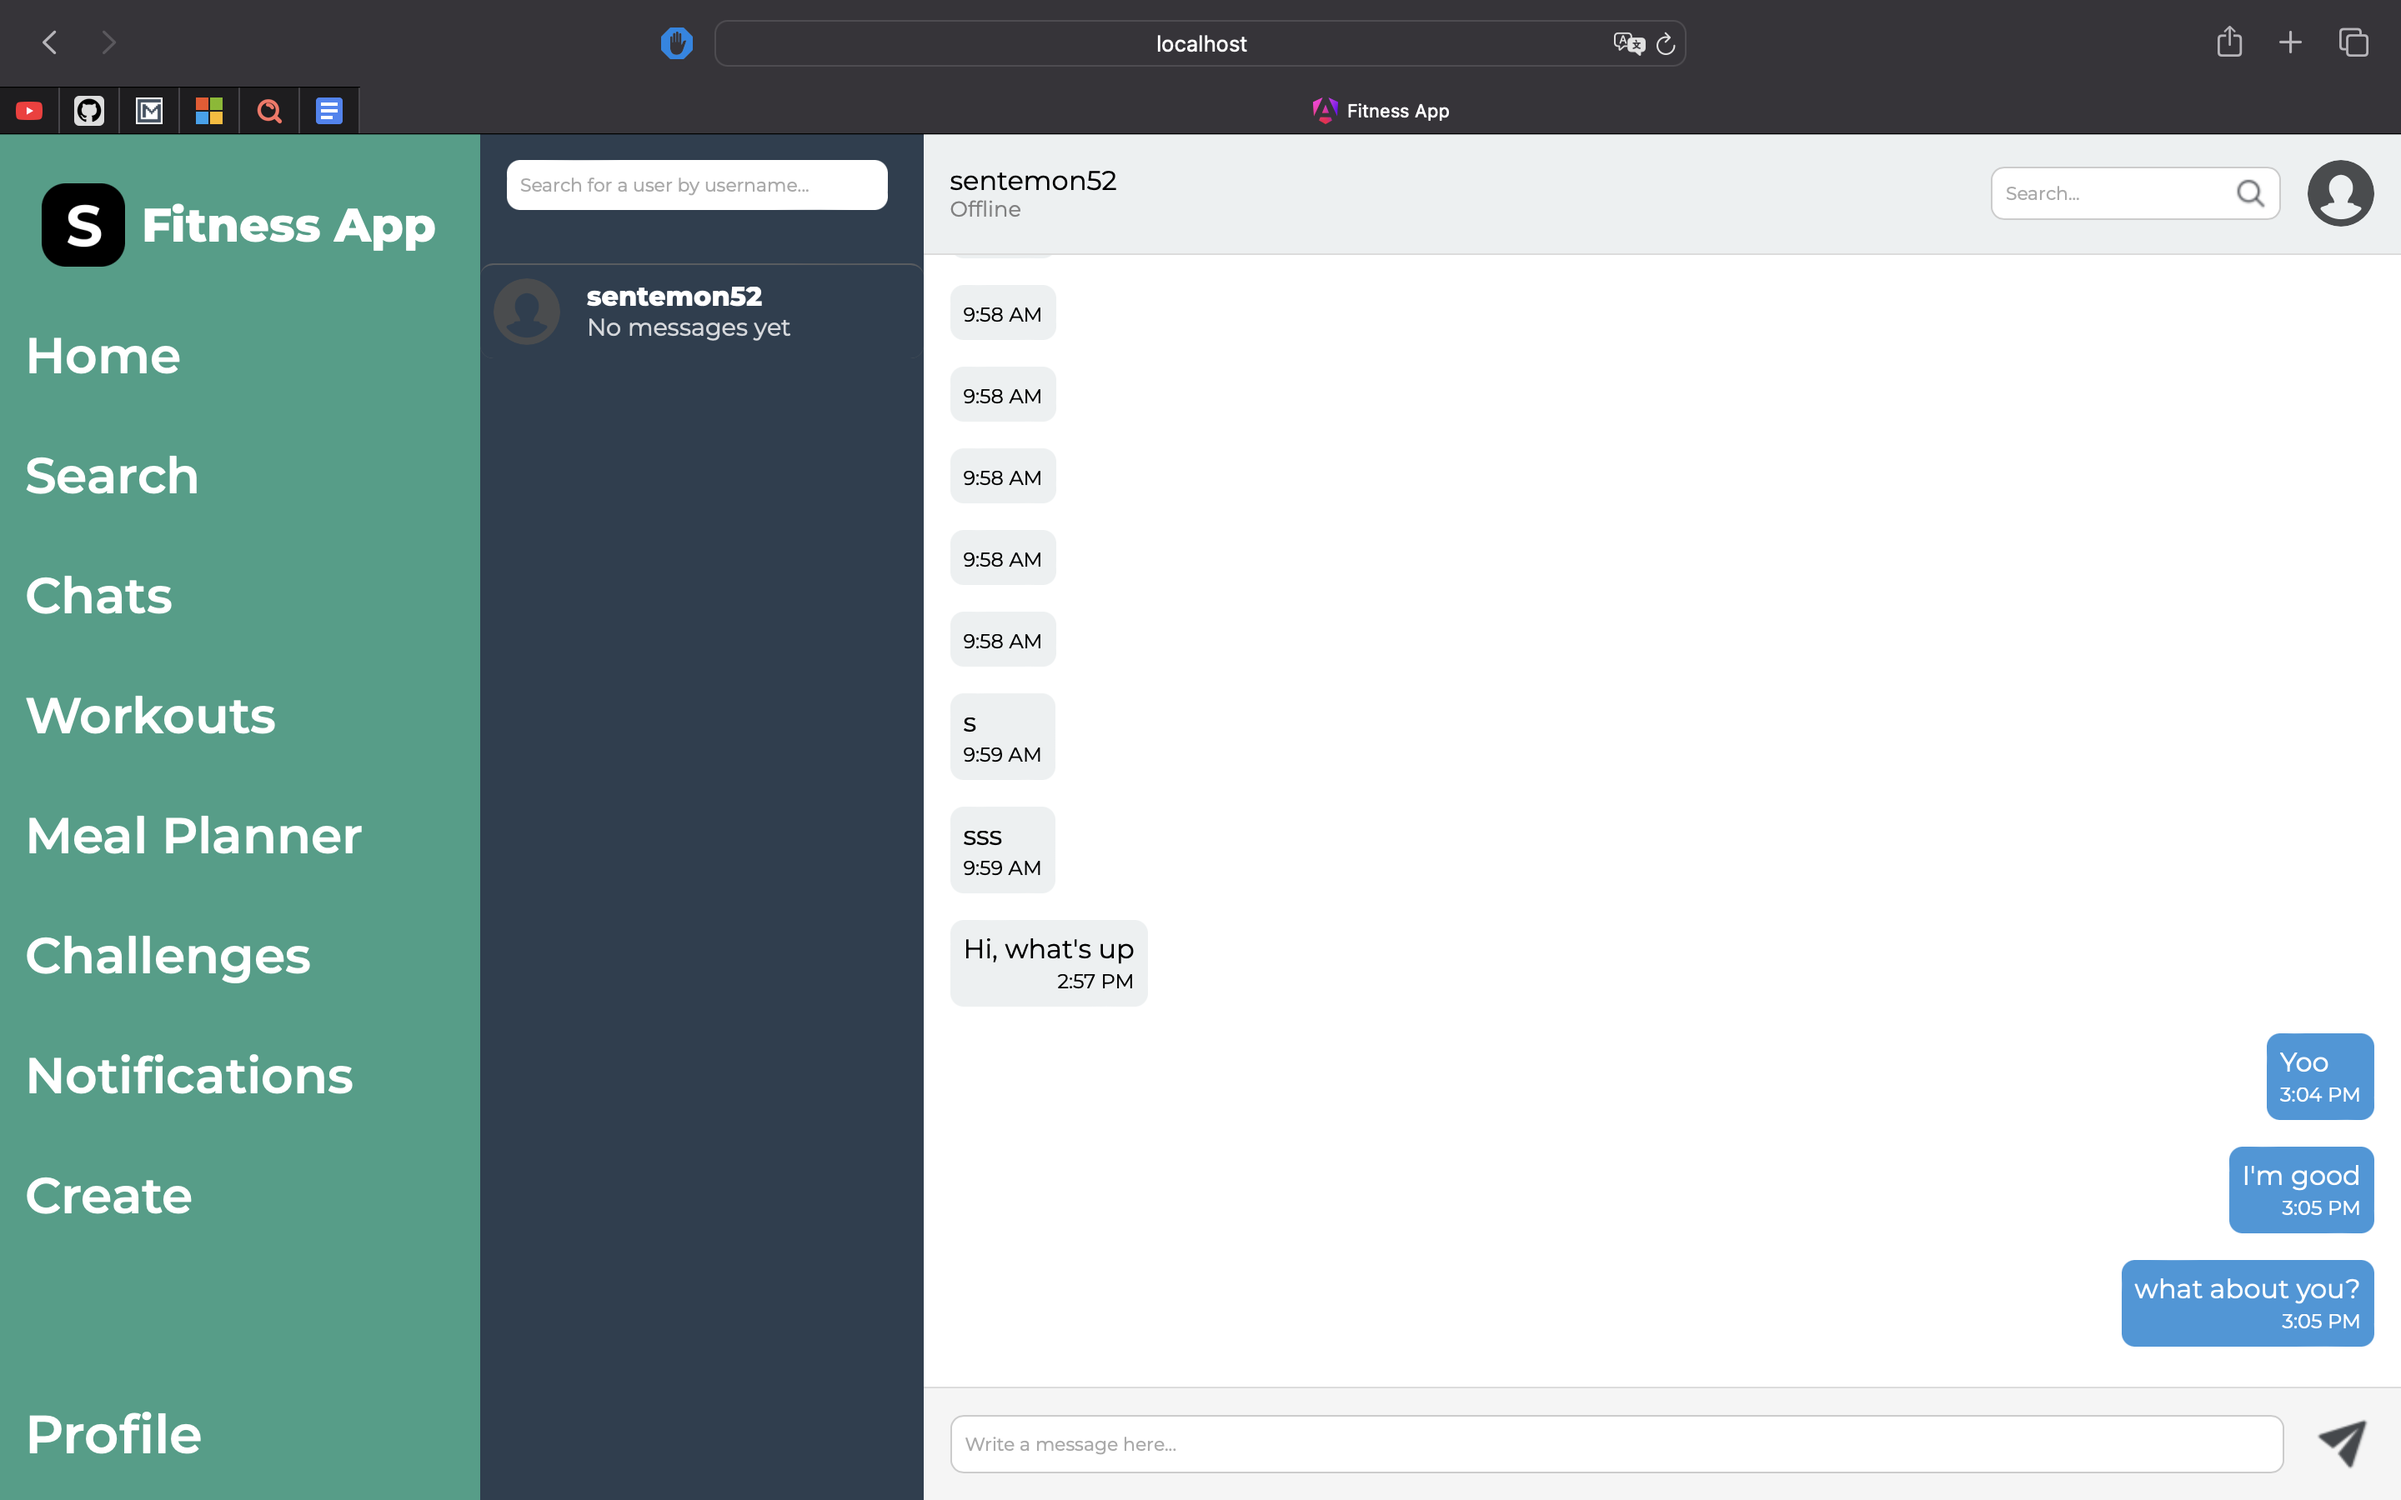
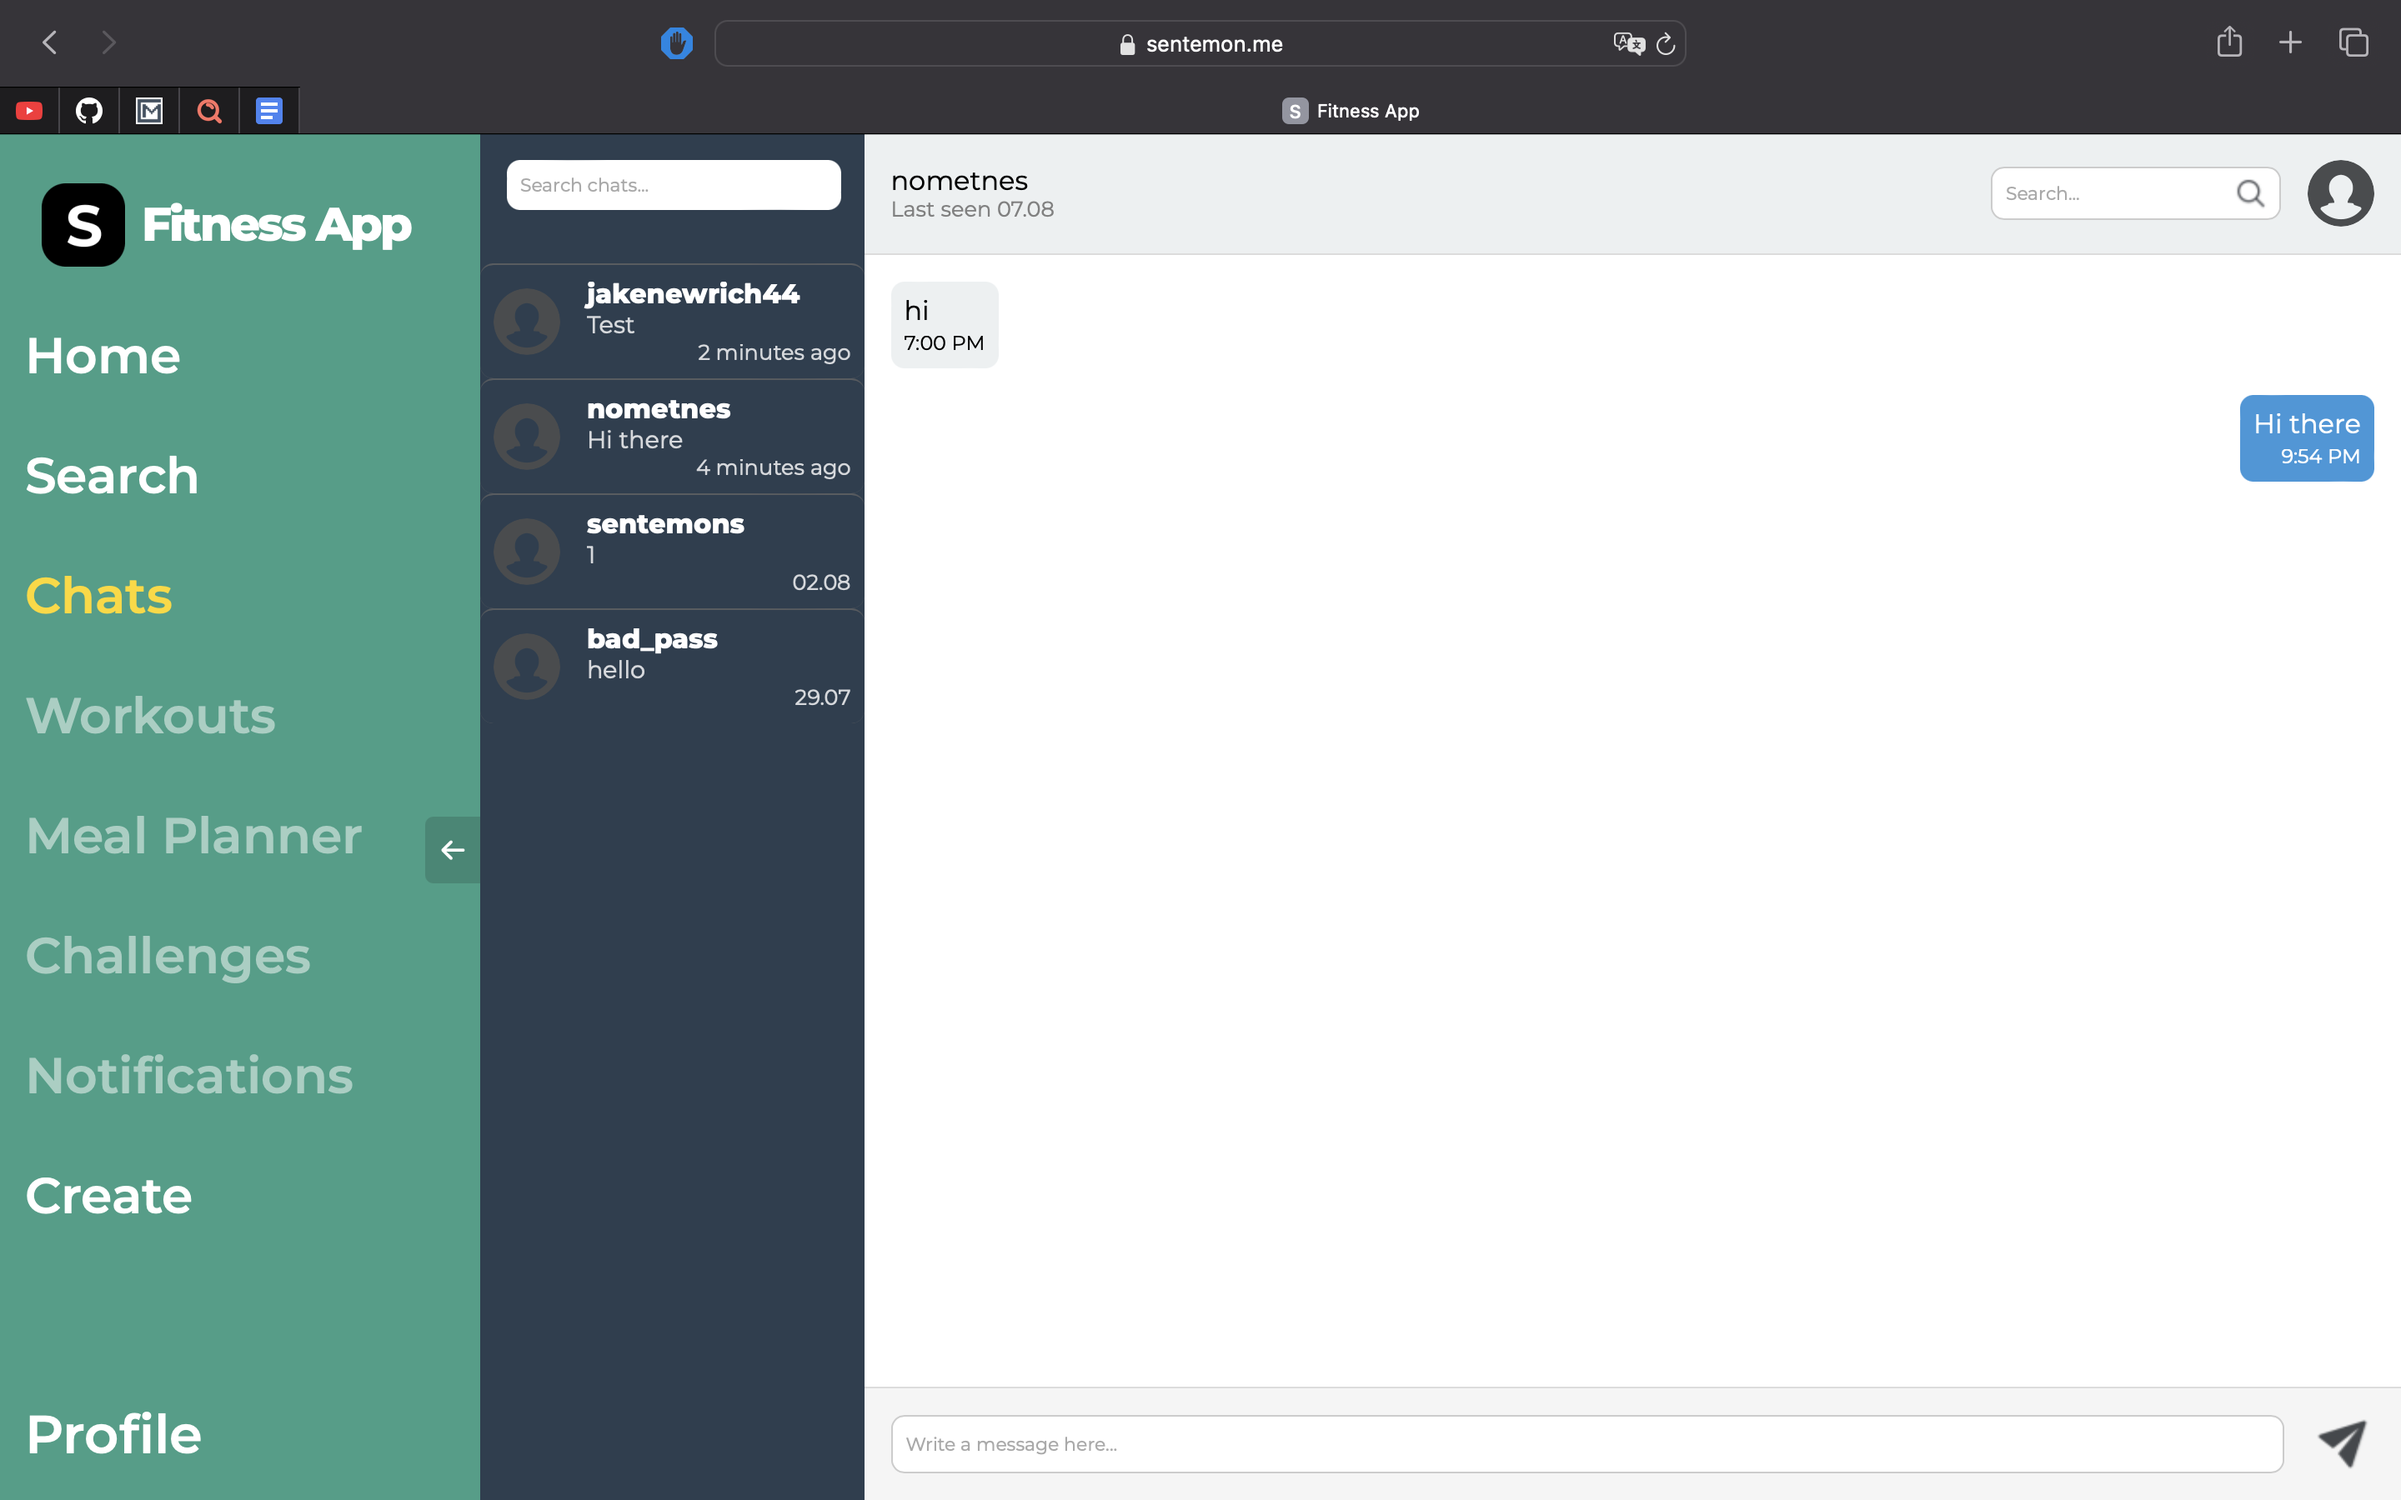
Update README.md and add new images for enhanced documentation and user interface

diff --git a/README.md b/README.md
@@ -1,125 +1,145 @@
 <p align="center">
-  <img src="./img/logo.png" width="150" height="150" alt="Fitness App Logo"/>
+  <img src="./img/logo.png" width="150" height="150" style="border-radius: 16px;" alt="Fitness App Logo"/>
 </p>
 
 <div align="center">
   <h1>Fitness App</h1>
+  <strong>A community-driven social network for fitness enthusiasts.</strong>
 </div>
 
-<p align="center">
-  <strong>A community-driven social network for fitness enthusiasts.</strong>
-</p>
-
+## Description
 Fitness App empowers users to share posts, track workouts, plan meals, and engage in personal or group chats. The platform fosters collaboration through challenges, personalized training plans, and comprehensive profile systems, promoting an engaging fitness journey for all users.
 
-
 ---
 
-## Required Software
-
-- **.NET SDK 8.0 or later:** [Download here](https://dotnet.microsoft.com/en-us/download)
-- **Angular CLI 18:** [Download here](https://angular.io/cli)
-- **Docker Compose:** [Learn more](https://docs.docker.com/compose/)
-
----
-
-## How to Run in Debug Mode
-
-### Run Angular Client
-
-*Instructions coming soon.*
-
-### Run Required Containers
-
-Use the provided `docker-compose.yml` to set up the infrastructure:
-
-- **Keycloak**: Manage authentication and user roles.
-- **PostgreSQL**: Relational database for core services.
-- **RabbitMQ**: Message broker for inter-service communication.
-- **Azurite**: Local emulation of Azure Blob Storage.
-
-### Run .NET Services
-
-*Instructions coming soon.*
-
----
-
-## Microservices
-
-- **Gateway:** Central entry point for routing requests.
-- **Auth Service:** Handles user authentication and roles via Keycloak.
-- **Post Service:** Manages posts and user interactions.
-- **Workout Planner Service:** Helps users create and track workout plans.
-- **Challenge Service:** Supports fitness challenges.
-- **Trainer Service:** Connects users with trainers and personalized plans.
-- **Chat Service:** Enables personal and group communication.
-- **Notification Service:** Sends in-app, email, and push notifications.
-- **File Storage Service:** Manages file uploads and storage via Azurite.
-- **Frontend (Angular):** Modern, responsive user interface.
-- **Keycloak:** External identity and access management solution.
-- **PostgreSQL:** Primary database for storing data.
-- **RabbitMQ:** Manages communication between microservices.
-- **Azurite:** Simulates Azure Blob Storage locally.
-
----
-
-## Infrastructure Diagram
-
-*Coming soon.*
-
----
-
-## Screenshots
-
-- **Home**
-<img src="./img/home.png" alt="Fitness App Home Page" />
-
-- **Workouts**
-<img src="./img/workouts.png" alt="Fitness App Workouts Page" />
-
-- **Chats**
-<img src="./img/chats.png" alt="Fitness App Chats Page" />
-
-- **Profile**
-<img src="./img/profile.png" alt="Fitness App Profile Page" />
+## Table of Contents
+1. [Description](#description)
+2. [Technology Stack](#technology-stack)
+3. [Microservices](#microservices)
+4. [Screenshots](#screenshots)
+5. [Deployment](#deployment)
+6. [Useful Links](#useful-links)
+7. [Required Software](#required-software)
+8. [Running in Debug Mode](#running-in-debug-mode)
 
 ---
 
 ## Technology Stack
 
-- **SDK:** .NET 8
-- **Frontend Framework:** Angular 18
-- **Identity Management:** Keycloak 26
-- **Persistence:**
-    - Database: PostgreSQL 15
-    - Blob Storage: Azurite (latest)
-- **Microservices Communication:** RabbitMQ 4
-- **Containerization:** Docker, Docker Compose
-- **Testing:**
-    - Unit Tests: XUnit
-    - Integration Tests: XUnit + TestContainers
-- **Continuous Integration/Continuous Deployment (CI/CD):** GitHub Actions
+* **SDK:** .NET 8
+* **Frontend Framework:** Angular 18
+* **Identity Management:** Keycloak 26
+* **Persistence:** PostgreSQL 15, Azurite 3.35.0
+* **Microservices Communication:** RabbitMQ 4
+* **Containerization:** Docker, Docker Compose, Kubernetes
+* **Testing:** XUnit, XUnit + TestContainers
+* **CI/CD:** GitHub Actions
+
+---
+
+## Microservices
+
+* **Frontend (Angular)** – modern, responsive user interface for users.
+* **Gateway** – central entry point, routes requests to the appropriate services.
+* **Auth Service** – manages users and roles, integrated with Keycloak.
+* **Post Service** – handles creating and managing user posts.
+* **Chat Service** – real-time messaging between users.
+* **File Storage Service** – manages file and image storage via Azurite/Azure Blob Storage.
+* **Workout Service** – helps users plan and track workouts. *(in progress)*
+* **Notification Service** – sends notifications to users (email, push, in-app). *(in progress)*
+* **Challenge Service** – supports fitness challenges and competitions. *(in progress)*
+* **Meal Planner Service** – assists users in meal planning and tracking. *(in progress)*
+* **PostgreSQL** – relational database for storing user and application data.
+* **Keycloak** – external service for identity and access management.
+* **RabbitMQ** – message broker for inter-service communication.
+* **Azurite** – local Azure Blob Storage emulator.
+* **Seq** – centralized logging and monitoring.
+* **Nginx-proxy** – routes incoming requests to the correct service. *(for production)*
+* **Nginx-letsencrypt** – automatic SSL certificate management. *(for production)*
+
+---
+
+## Screenshots
+
+* **Login**
+
+  <img src="./img/login.png" alt="Fitness App Login Page" />
+
+* **Home**
+
+  <img src="./img/home.png" alt="Fitness App Home Page" />  
+
+* **Search**
+
+  <img src="./img/search.png" alt="Fitness App Search Page" />
+
+* **Chats**
+
+  <img src="./img/chats.png" alt="Fitness App Chats Page" />
+
+* **Workouts**
+
+  <img src="./img/workouts.png" alt="Fitness App Workouts Page" />
+
+* **Create Post**
+
+  <img src="./img/create.png" alt="Fitness App Create Post Page" />
+
+* **Profile**
+
+  <img src="./img/profile.png" alt="Fitness App Profile Page" />  
+
+---
+
+## Deployment
+
+The Fitness App is deployed on **AWS EC2 instances** using Docker Compose.
+The application is accessible via **[https://sentemon.me](https://sentemon.me)**
+
+Highlights:
+
+* **AWS EC2** – Hosting Dockerized microservices
+* **Nginx + Let's Encrypt** – Reverse proxy with automatic SSL certificate management
+* **Docker Compose** – Orchestration for local and production services
+* **Monitoring & Logging** – Centralized via Seq
 
 ---
 
 ## Useful Links
 
-- Docker Images: https://hub.docker.com/u/sentemon
+* Docker Images: [https://hub.docker.com/u/sentemon](https://hub.docker.com/u/sentemon)
 
 ---
 
-## How to Run Docker Compose
+## Required Software
 
-### Running the Services
-
-- Run the following command to start the containers:
-
-  ```bash
-  docker-compose up
-  ```
+* **Docker Compose:** [Download here](https://docs.docker.com/compose/install/)
 
 ---
 
-## Future Plans
+## Running in Debug Mode
 
-- **Azure Deployment:** Deploy the app on Azure
+1. **Clone the repository and navigate into it:**
+
+```bash
+git clone https://github.com/sentemon/FitnessApp.git
+cd FitnessApp
+```
+
+2. **Build the Docker containers:**
+
+```bash
+docker-compose -f docker-compose.yml build
+```
+
+3. **Start the application:**
+
+```bash
+docker-compose -f docker-compose.yml up -d
+```
+
+4. **Stop the application:**
+
+```bash
+docker-compose -f docker-compose.yml down
+```
